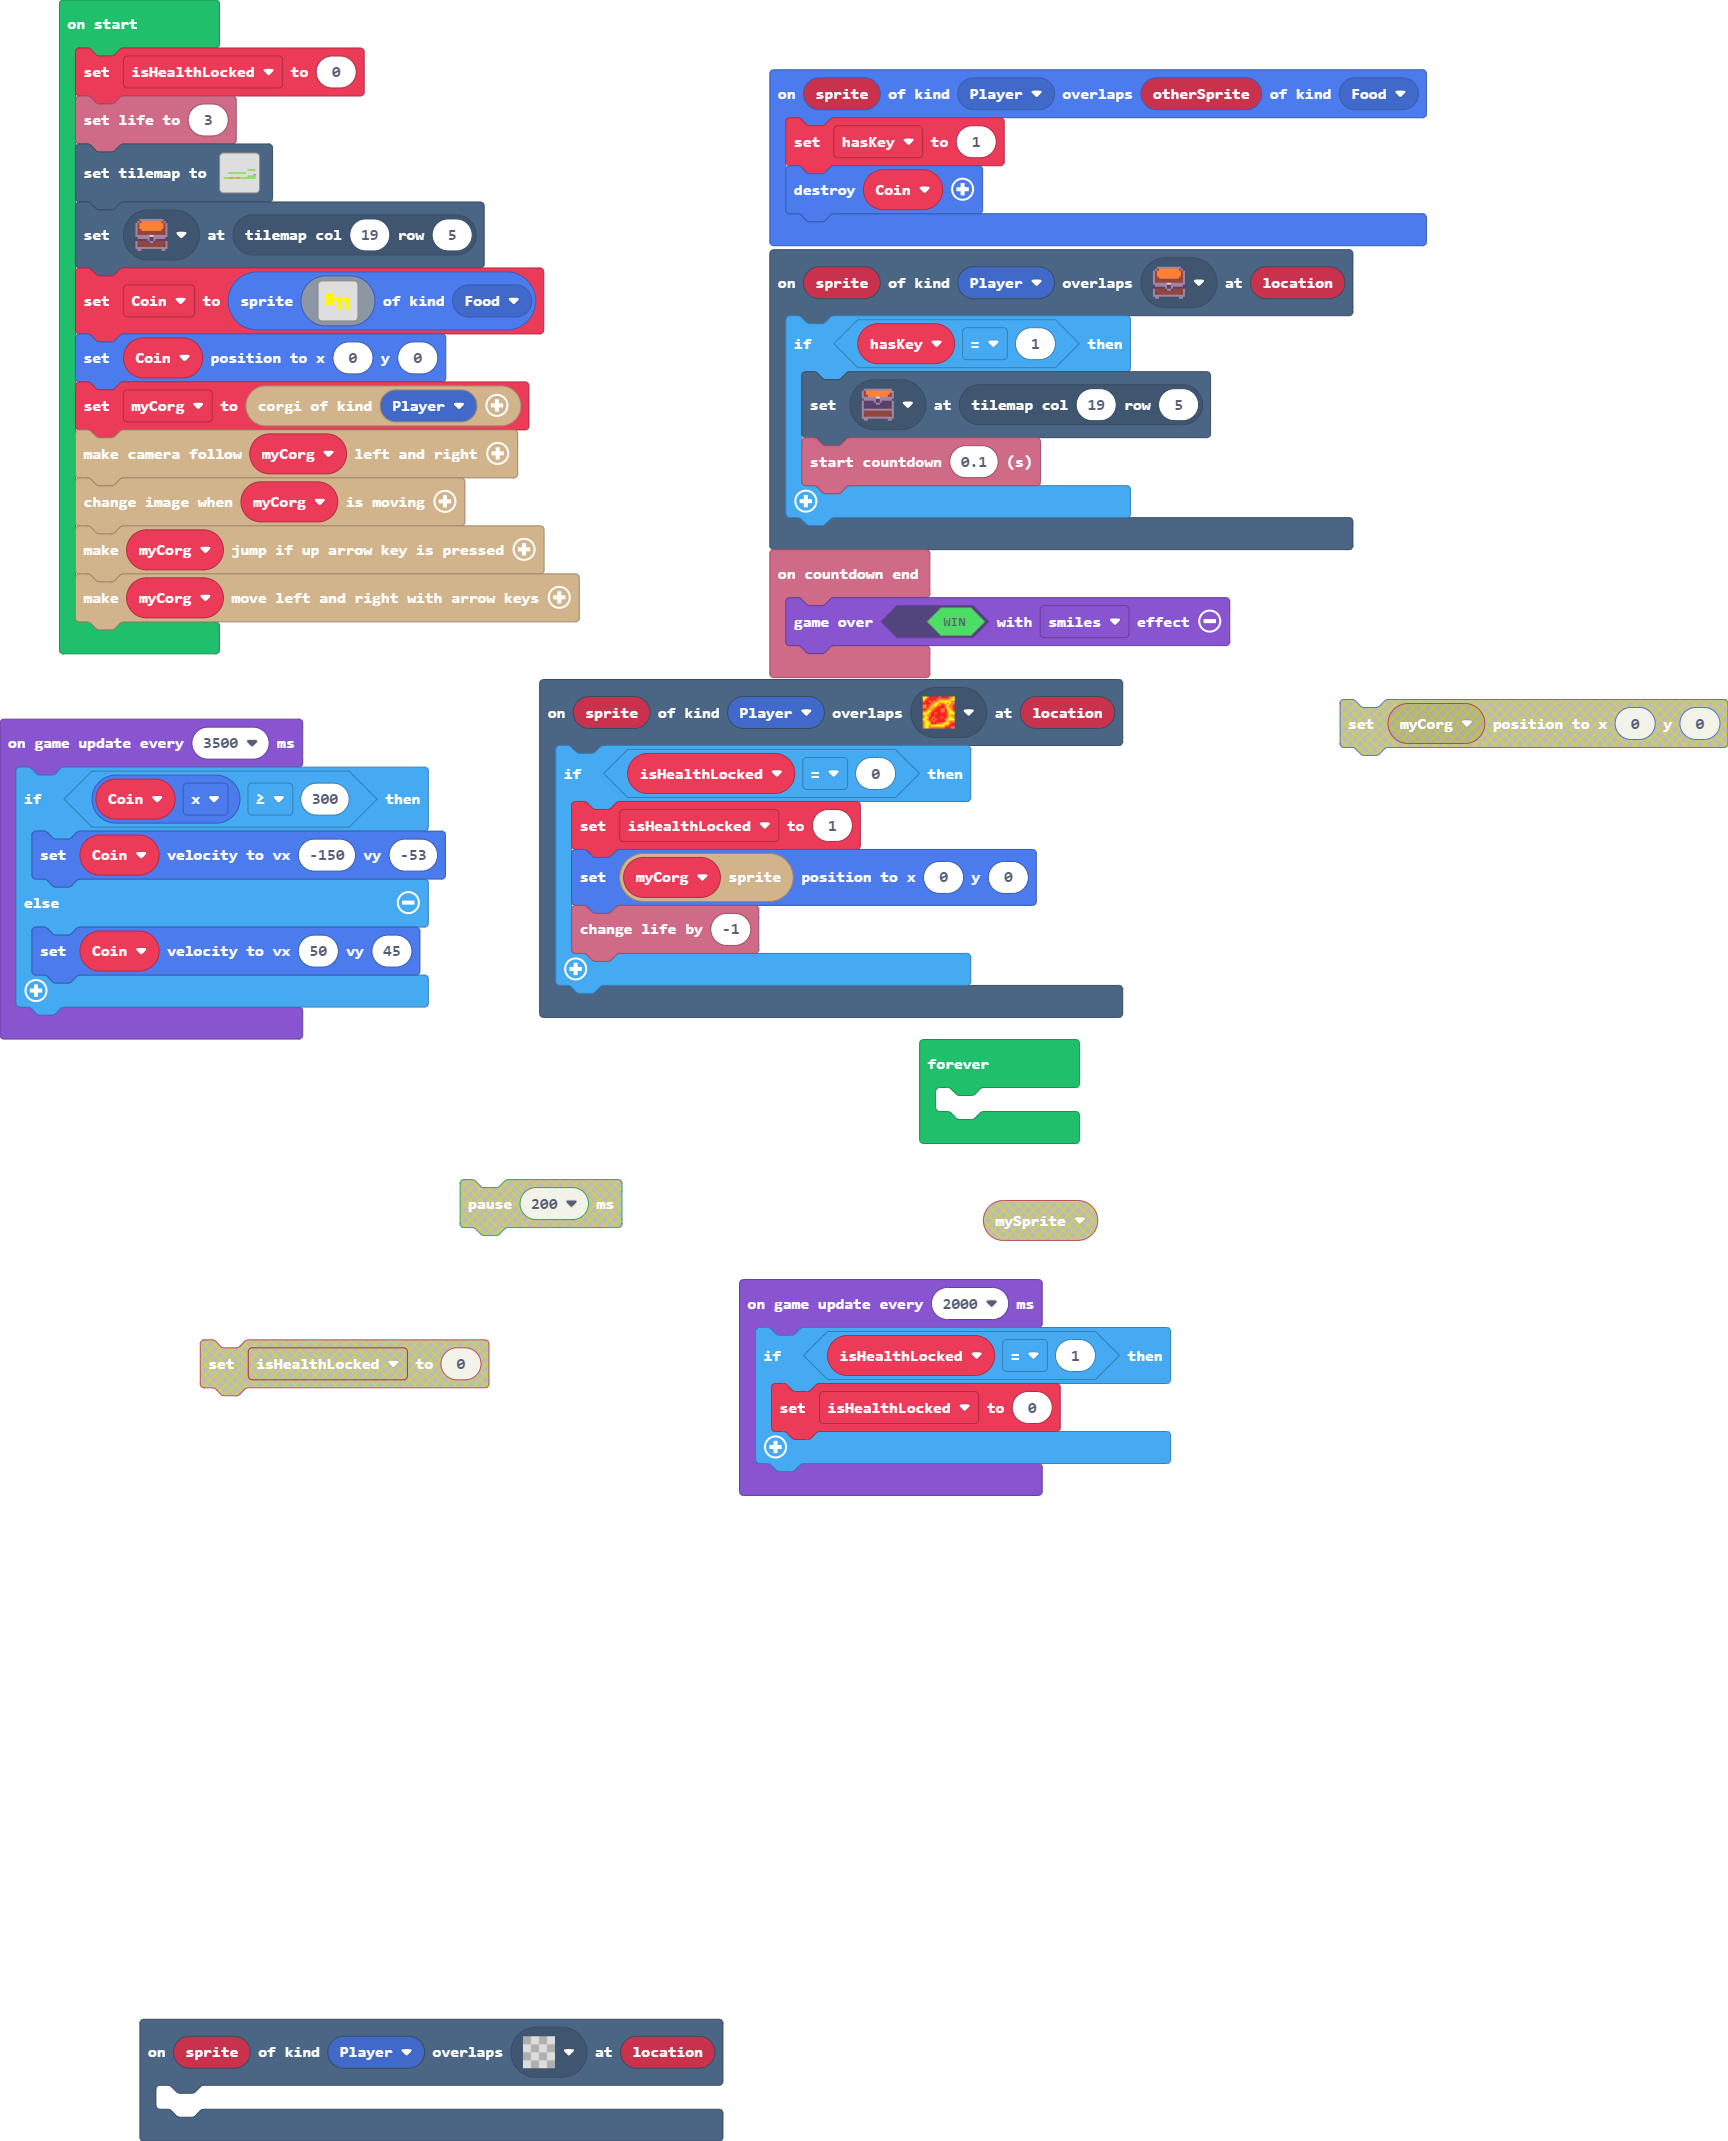
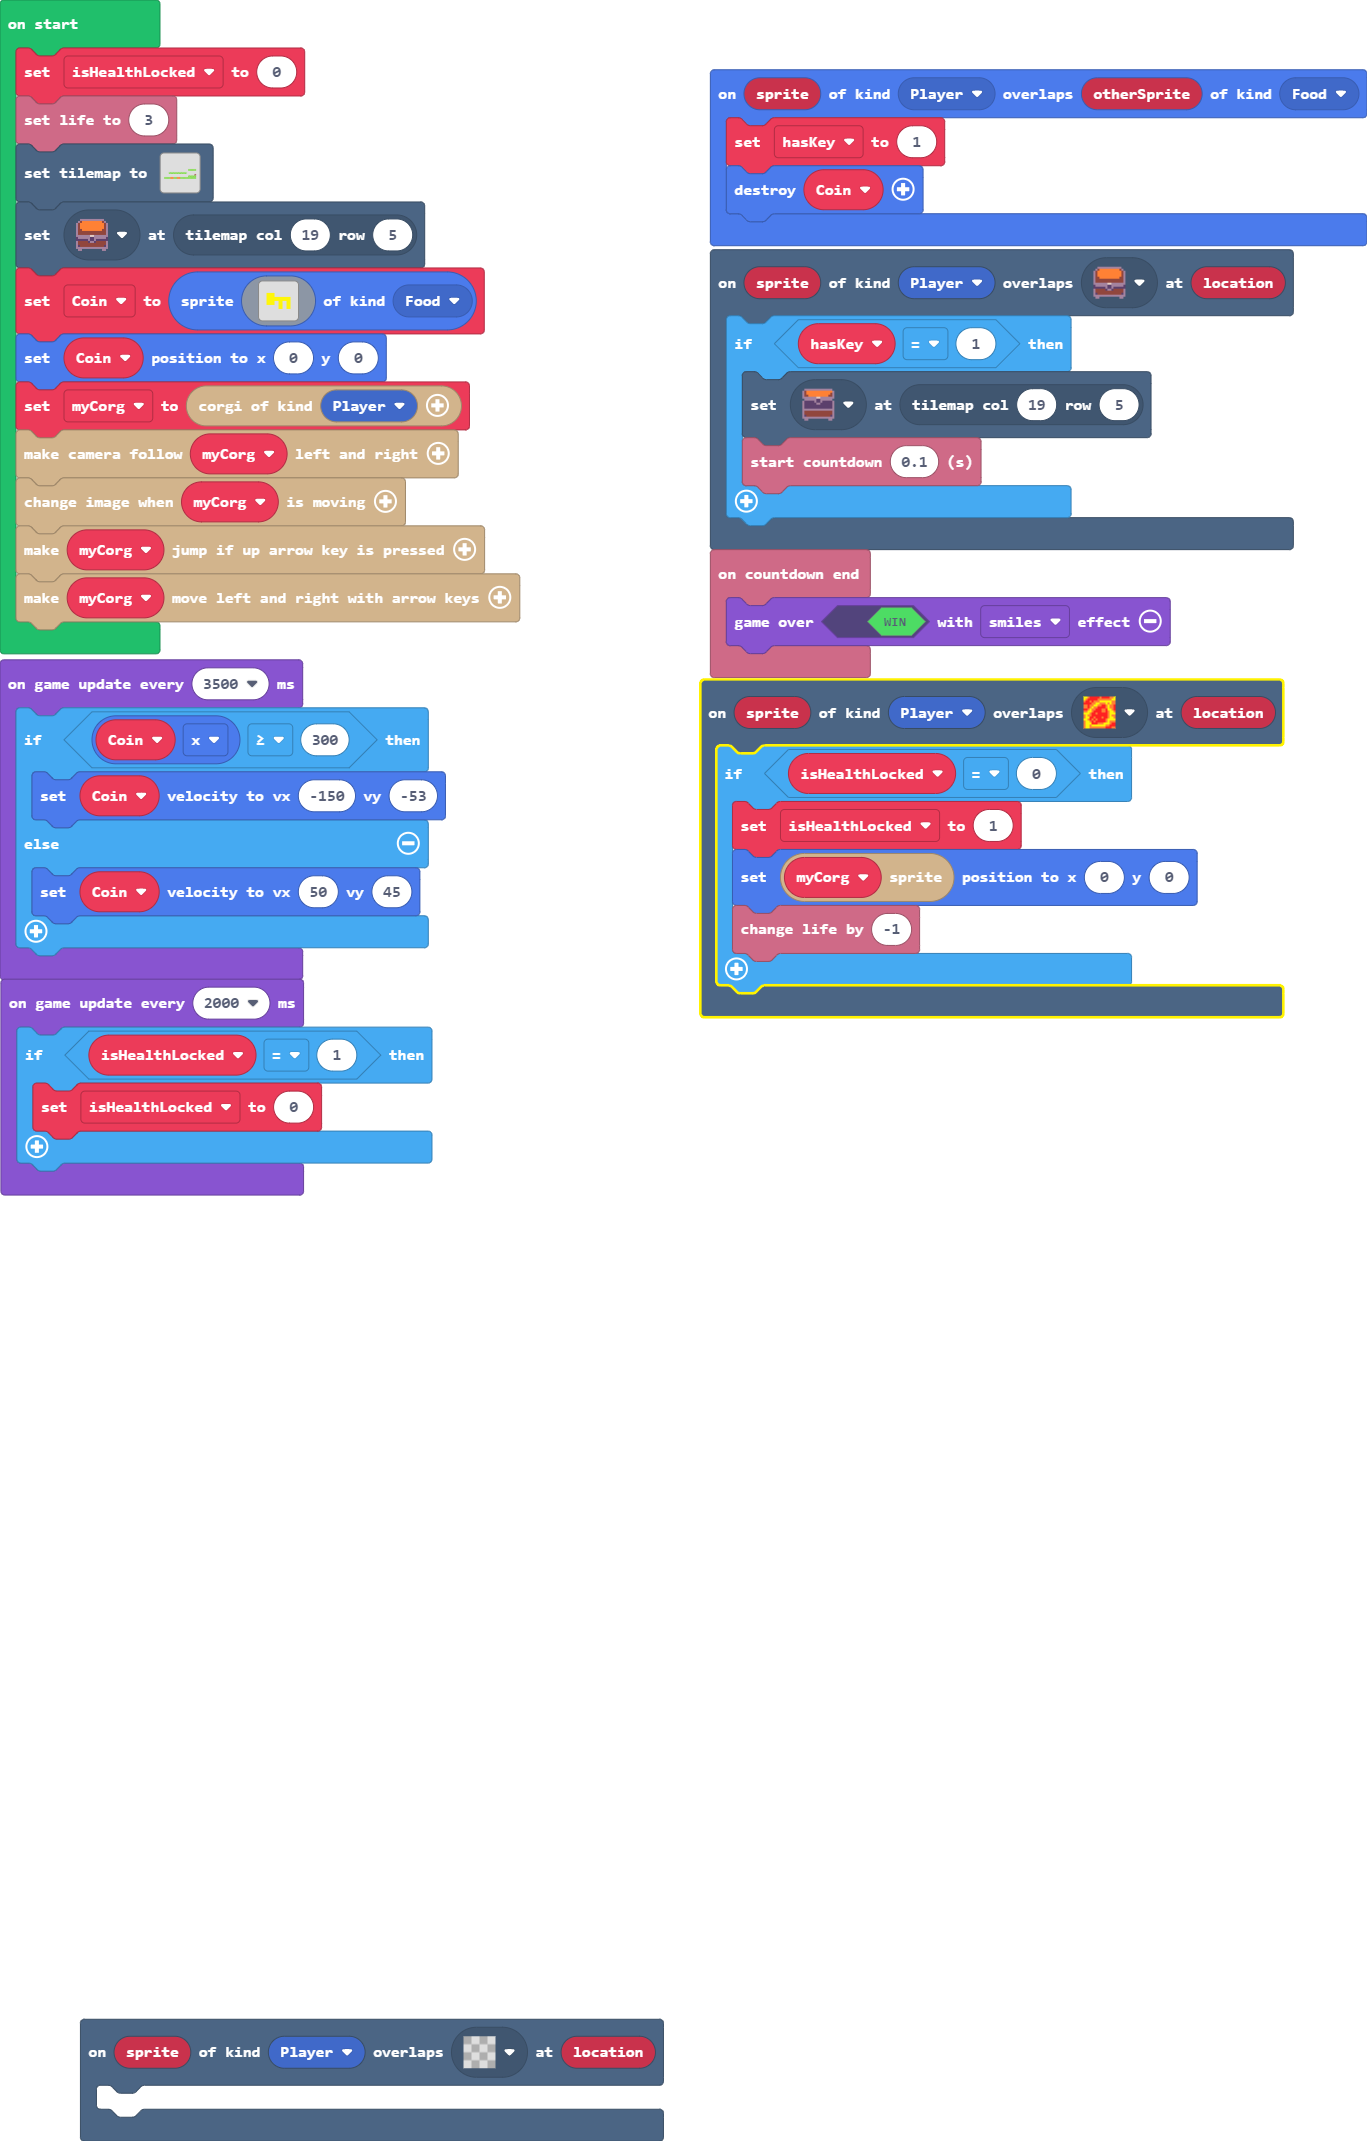
Update main.blocks, main.ts

diff --git a/main.ts b/main.ts
@@ -54,9 +54,6 @@ game.onUpdateInterval(2000, function () {
         isHealthLocked = 0
     }
 })
-forever(function () {
-	
-})
 game.onUpdateInterval(3500, function () {
     if (Coin.x >= 300) {
         Coin.setVelocity(-150, -53)
